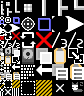
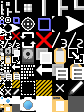
New symbols (possibly part 1 of 2)

diff --git a/src/main/java/r48/ui/Art.java b/src/main/java/r48/ui/Art.java
@@ -239,11 +239,12 @@ public class Art {
         Map, BarV, BarVBranchR, BarCornerUR,
         Target, Area, Expandable, Play,
         Loop, XRed, Div3, Div2,
-        SaveDNU, CopyDNU, PasteDNU, CloneFrame,
+        Save, CopyDNU, PasteDNU, CloneFrame,
         // CopyGroup/PasteGroup have multiple items, while Copy/Paste show blank boxes/paper.
         Inspect, Back, CopyGroupDNU, PasteGroupDNU,
         // "Rectangle" is white & dashed, area is solid-skyblue,
         //  XWhite is white and smaller than XRed.
-        Rectangle, Stripes, XWhite, Unused
+        Rectangle, Stripes, XWhite, Pencil,
+        Camera, New, Folder, Unused
     }
 }
